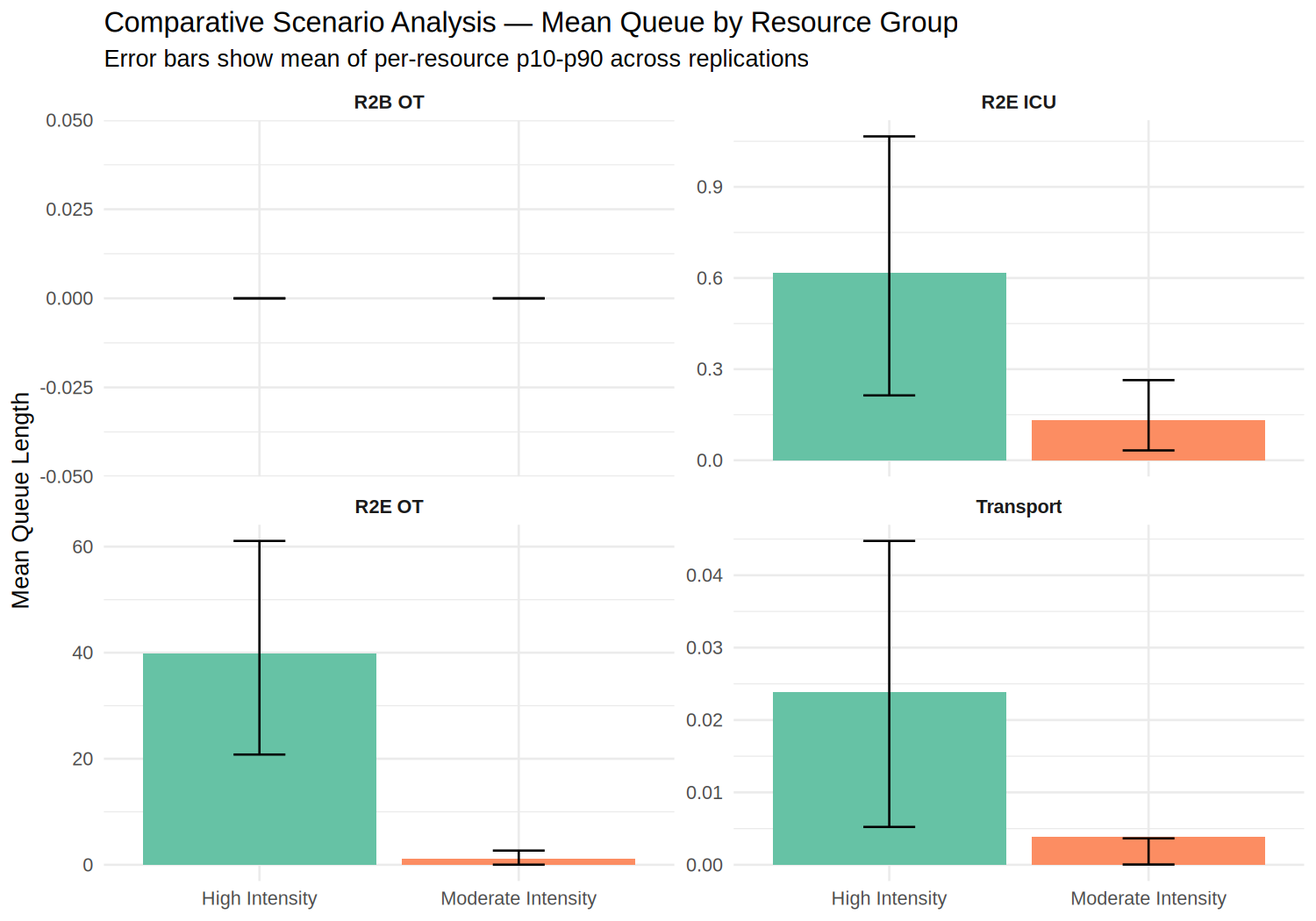
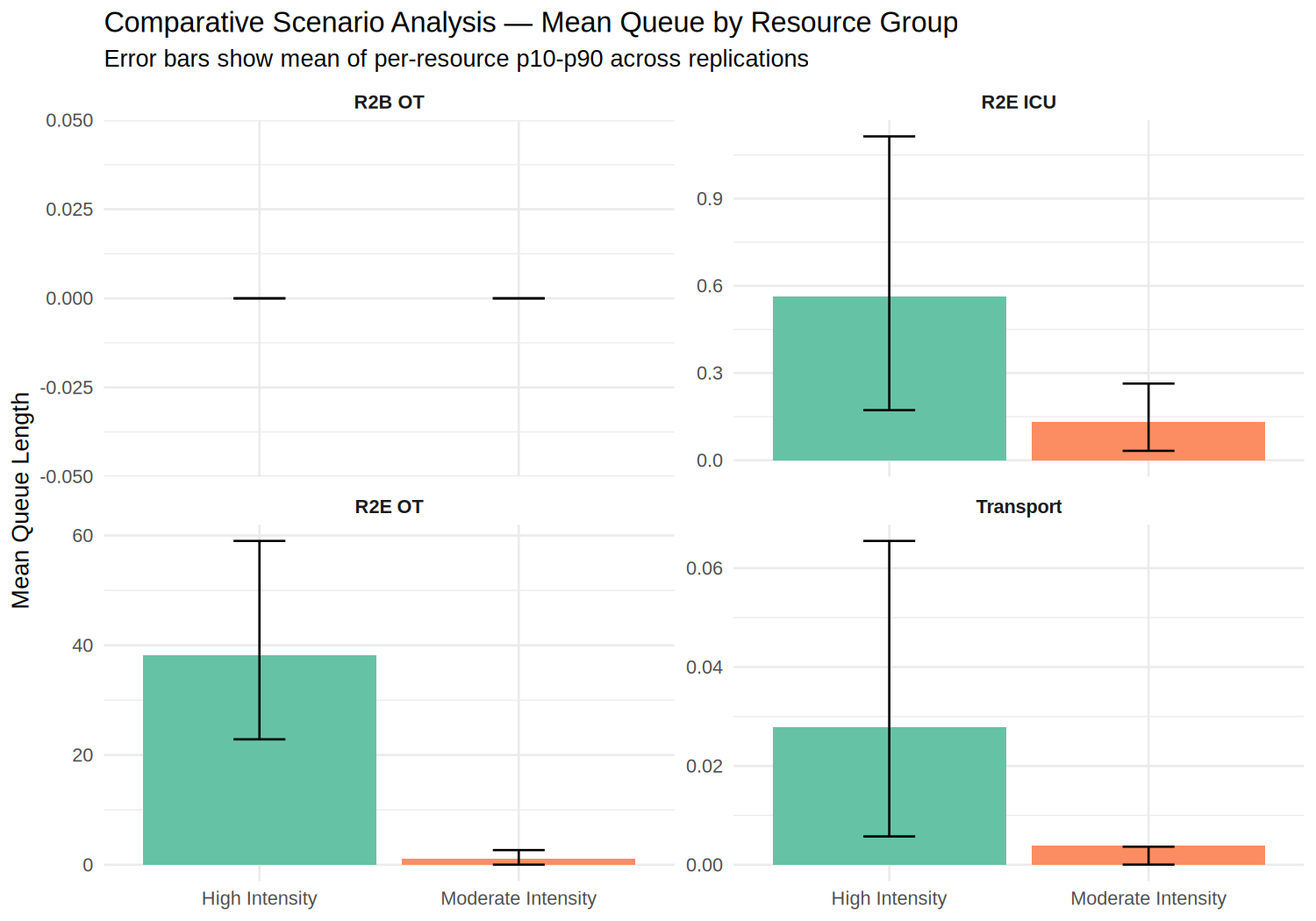
docs(issue-151): re-measure the comparative scenario tables against the calibration
The 50-replication comparison in docs/Multi_Run_Analysis.md reported
high_intensity mortality produced by a died-of-wounds model inherited from the
Falklands-calibrated base. Re-measured against the profile's own calibration,
its DOW/WIA rate moves from 0.88% to 3.43% and its DOW/run from 5.80 to 23.58.

Its queue rows move a little with them, and in two directions: the R2E theatre
and intensive care queues shorten, 39.8 to 38.2 and 0.618 to 0.564, a casualty
who dies of wounds leaving the queue for the resource that would have treated
them, while queues further from the point of death lengthen alongside a
casualty count reading 1,021.0 against 992.3.

The moderate_intensity arm reproduced every published figure exactly, each
queue group to the precision published, which is the evidence that the two arms
differ only where they are meant to. The interpretation now states what the
DOW/WIA ratio between the profiles does and does not measure, since it compares
two standards of care as well as two casualty volumes and a planner reading it
as the cost of surge alone would overstate it.

The abstract's queue ratios were stale from before the arrival generators were
rebuilt around per-day rate draws, as was the moderate_intensity column of the
README's 30-replication profile table; both are corrected here. The
high_intensity force-regeneration rows in the single-run analysis are flagged
in place rather than re-measured, the calibration steepening the depletion
[…]

diff --git a/docs/Multi_Run_Analysis.md b/docs/Multi_Run_Analysis.md
@@ -4,9 +4,9 @@
 
 <small>[Return to Top](#contents)</small>
 
-This document presents a multi-run (n≥30 replications, 95% confidence intervals) comparative analysis of the Battlefield Casualty Handling discrete event simulation under two named casualty-rate scenario profiles: `moderate_intensity` (a Falklands 1982-modified baseline, the same casualty rate underlying the illustrative single-run analysis in `docs/Single_Run_Analysis.md`) and `high_intensity` (an Okinawa exemplar, calibrated from FORECAS Tables A.7/A.9 [[1]](#references)). Where the single-run document establishes what the modelled deployed health system does under one seed and one casualty-rate assumption, this document establishes whether those findings are an artefact of that single draw and how the same system responds when casualty production is scaled to a materially higher intensity, using the project's multi-run replication framework, which executes independent stochastic replications of the discrete event simulation and aggregates outcomes as mean, 95% confidence interval, and p10–p90 range across runs.
+This document presents a multi-run (n≥30 replications, 95% confidence intervals) comparative analysis of the Battlefield Casualty Handling discrete event simulation under two named casualty-rate scenario profiles: `moderate_intensity` (a Falklands 1982-modified baseline, the same casualty rate underlying the illustrative single-run analysis in `docs/Single_Run_Analysis.md`) and `high_intensity` (an Okinawa exemplar, its casualty rates calibrated from FORECAS Tables A.7/A.9 [[1]](#references) and its died-of-wounds model from the rate the US Army reported on Okinawa [[2]](#references)). Where the single-run document establishes what the modelled deployed health system does under one seed and one casualty-rate assumption, this document establishes whether those findings are an artefact of that single draw and how the same system responds when casualty production is scaled to a materially higher intensity, using the project's multi-run replication framework, which executes independent stochastic replications of the discrete event simulation and aggregates outcomes as mean, 95% confidence interval, and p10–p90 range across runs.
 
-Across 50 replications of each scenario (30 simulated days, seed 42), the comparison confirms that the current establishment's adequacy conclusion does not extrapolate from Falklands to Okinawa intensity: mean total casualties per run rise 2.30-fold, the R2E Operating Theatre mean queue rises approximately 180-fold, the R2E Intensive Care Unit mean queue rises approximately 4.7-fold from a low base, the R2E Holding bed mean queue rises approximately 5.2-fold from a base already materially non-zero, and the R2B Holding bed mean queue rises approximately 7.1-fold, while R2B OT queue remains at zero in both scenarios — not because R2B absorbs any of the surge, but because the model's existing bypass routing diverts all surgical overflow to an already-saturated R2E. Died-of-wounds rate as a proportion of WIA rises from 0.55% to 0.79%. Transport (PMV Ambulance / HX240M) remains the one echelon with genuine headroom at both intensities.
+Across 50 replications of each scenario (30 simulated days, seed 42), the comparison confirms that the current establishment's adequacy conclusion does not extrapolate from Falklands to Okinawa intensity: mean total casualties per run rise 2.33-fold, the R2E Operating Theatre mean queue rises approximately 36-fold, the R2E Intensive Care Unit mean queue rises approximately 4.3-fold from a low base, the R2E Holding bed mean queue rises approximately 4.3-fold from a base already materially non-zero, and the R2B Holding bed mean queue rises approximately 5.5-fold, while R2B OT queue remains at zero in both scenarios — not because R2B absorbs any of the surge, but because the model's existing bypass routing diverts all surgical overflow to an already-saturated R2E. Died-of-wounds rate as a proportion of WIA rises from 0.42% to 3.43%, though that row alone compares two campaigns' standards of care as well as two casualty volumes, each profile carrying the mortality model of the conflict its casualty rates come from. Transport (PMV Ambulance / HX240M) remains the one echelon with genuine headroom at both intensities.
 
 ## Contents
 
@@ -31,11 +31,11 @@ Across 50 replications of each scenario (30 simulated days, seed 42), the compar
 
 <small>[Return to Top](#contents)</small>
 
-This analysis uses the project's comparative scenario runner (`run_scenario()` / `compare_scenarios()`, `R/scenario_runner.R`), which executes the multi-replication framework (`run_replications()`, `R/replication.R`) under a named scenario profile and aggregates queue and mortality KPIs across replications in the same mean (p10–p90), 95% CI format used throughout this project. A scenario profile is a named set of overrides applied on top of the shipped default `env_data.json` parameters; each profile's casualty-generation parameters (arrival-rate distributions, priority-severity mix, and died-of-wounds calibration) are calibrated against a named historical exemplar. The extent of that validation differs by profile and by parameter: the `moderate_intensity` died-of-wounds ceilings are validated against a treated-cohort mortality rate reported for casualties reaching forward surgical care, not against a whole-of-wounded rate (see the README's [Parameter Calibration](../README.md#parameter-calibration) and Further Development entry L22), while `high_intensity` has only its generation rates and distribution family sourced, as the following paragraph sets out.
+This analysis uses the project's comparative scenario runner (`run_scenario()` / `compare_scenarios()`, `R/scenario_runner.R`), which executes the multi-replication framework (`run_replications()`, `R/replication.R`) under a named scenario profile and aggregates queue and mortality KPIs across replications in the same mean (p10–p90), 95% CI format used throughout this project. A scenario profile is a named set of overrides applied on top of the shipped default `env_data.json` parameters; each profile's casualty-generation parameters (arrival-rate distributions, priority-severity mix, and died-of-wounds calibration) are calibrated against a named historical exemplar. The extent of that validation differs by profile and by parameter. Each profile's died-of-wounds ceilings are calibrated against a treated-cohort mortality rate reported for its own campaign, measured over casualties who reached a treatment facility alive rather than over all wounded (see the README's [Parameter Calibration](../README.md#parameter-calibration) and Further Development entry L22): `moderate_intensity` against the Falklands figure, `high_intensity` against the rate the US Army reported on Okinawa. What `high_intensity` still inherits from the Falklands-calibrated base is its priority split, its DNBI composition and its transport times, as the following paragraph sets out.
 
 Both scenarios use the same health system establishment — the simulation's shipped default configuration, a representative combat brigade served by three Role 1 (R1) treatment teams, two Role 2 Basic (R2B) facilities, and one Role 2 Enhanced Heavy (R2E Heavy) hospital — since element, bed, and transport fleet counts are structural configuration, not scenario-eligible parameters. Only the casualty-generation parameters differ between `moderate_intensity` and `high_intensity`.
 
-Two scenarios are compared — `moderate_intensity` (Falklands 1982 exemplar) and `high_intensity` (Okinawa exemplar, an explicitly unvalidated demonstration skeleton) — both defined in `env_data.json` (Issue #54). A third, Vietnam-calibrated profile is not included: FORECAS's Appendix A has no standalone Vietnam combat-troop WIA/KIA distribution table (Table A.5 is Vietnam DNBI only) [[1]](#references), so no genuinely FORECAS-sourced Vietnam parameters exist to build one from.
+Two scenarios are compared — `moderate_intensity` (Falklands 1982 exemplar) and `high_intensity` (Okinawa exemplar, calibrated in its casualty generation and its died-of-wounds model but not in its triage, sub-type and transport assumptions) — both defined in `env_data.json` (Issue #54). A third, Vietnam-calibrated profile is not included: FORECAS's Appendix A has no standalone Vietnam combat-troop WIA/KIA distribution table (Table A.5 is Vietnam DNBI only) [[1]](#references), so no genuinely FORECAS-sourced Vietnam parameters exist to build one from.
 
 **Run configuration:** 50 replications × 30 days (seed 42) were run for each scenario via:
 
@@ -55,37 +55,39 @@ Rscript scripts/run_scenarios.R --scenarios moderate_intensity,high_intensity --
 
 | Metric | `moderate_intensity` (Falklands) | `high_intensity` (Okinawa) | Ratio |
 |---|---|---|---|
-| Total casualties/run | 437.8 (p10–p90: 362.7–528.0) | 992.3 (p10–p90: 888.4–1,119.7) | 2.27× |
-| WIA/run | 188.7 (137.6–251.5) | 662.1 (539.4–784.9) | 3.51× |
-| DOW/run | 0.78 (0–2.0) | 5.80 (3.0–9.0) | 7.44× |
-| DOW/WIA rate | 0.42% (95% CI [0.29%, 0.54%]) | 0.88% (95% CI [0.78%, 0.99%]) | 2.11× |
+| Total casualties/run | 437.8 (p10–p90: 362.7–528.0) | 1,021.0 (p10–p90: 906.5–1,138.5) | 2.33× |
+| WIA/run | 188.7 (137.6–251.5) | 684.3 (586.2–792.5) | 3.63× |
+| DOW/run | 0.78 (0–2.0) | 23.58 (18.0–32.1) | 30.2× |
+| DOW/WIA rate | 0.42% (95% CI [0.29%, 0.54%]) | 3.43% (95% CI [3.24%, 3.61%]) | 8.24× |
 
 The p10 to p90 spread on the casualty rows is the headline change from the previous measurement of this table, and it is the arrival process rather than the model around it. Both profiles now draw each stream's rate once per simulated day from the distribution its configuration names, so the between-day standard deviation the source reports reaches the output instead of being averaged away across 1,440 per-minute draws (see the README's [Casualty Generation](../README.md#casualty-generation)). Total casualties per `moderate_intensity` run previously spanned 439.0 to 444.1 between the 10th and 90th percentiles, a range of five casualties across a whole campaign; they now span 362.7 to 528.0. The means are essentially unmoved, 437.8 against 441.6, which is what an unchanged configured mean should produce. Every mean in this document should now be read against a distribution wide enough that a single run is a poor guide to it.
 
-The two died-of-wounds rows are each a single 50-replication measurement of a response averaging well under one death per replication at Falklands load, and 50 replications resolve a died-of-wounds rate only to roughly ±0.13 percentage points (see the README's [Further Development](../README.md#further-development) entry L22 for where that figure comes from). The intervals shown are correctly specified, the replications behind them being independent of one another (see the README's [Multi-run Replication Framework](../README.md#multi-run-replication-framework)); they are simply wide, and the `moderate_intensity` figure moves between control seeds by about as much as the interval spans. The figure to quote for that profile is therefore the 150-replication pooled one in the README's [Scenario Profiles](../README.md#scenario-profiles), 0.368% (95% CI [0.310%, 0.426%]) on the treated cohort, which this table's single measurement is one draw around, and the ratio between the two profiles should be read as approximate for the same reason. The queue rows below are better resolved at the same replication count: they are time-weighted occupancy measures with far more events behind each replication.
+The died-of-wounds rows are the other change from the previous measurement, and unlike the spread they are not a discovery about the system: `high_intensity` now carries a mortality model calibrated against Okinawa rather than one inherited from the Falklands-calibrated base, so its died-of-wounds figures moved from a Falklands ceiling paired with modern treatment technique to a 1945 pairing (see the README's [Scenario Profiles](../README.md#scenario-profiles)). The 30-fold ratio between the profiles is therefore a comparison of two campaigns' mortality experience as well as of two casualty volumes, and the two effects cannot be separated within this table.
+
+The two rows are also resolved very differently. The `moderate_intensity` figure is a single 50-replication measurement of a response averaging well under one death per replication, which 50 replications resolve only to roughly ±0.13 percentage points (see the README's [Further Development](../README.md#further-development) entry L22 for where that figure comes from); it moves between control seeds by about as much as its own interval spans, so the figure to quote for that profile is the 150-replication pooled one in the README's [Scenario Profiles](../README.md#scenario-profiles), 0.368% (95% CI [0.310%, 0.426%]) on the treated cohort. The `high_intensity` figure rests on some 24 deaths per replication and is correspondingly well resolved, its 3.43% sitting inside the 3.471% (95% CI [3.360%, 3.583%]) that the same 150-replication pooling gives. The intervals in both cases are correctly specified, the replications behind them being independent of one another (see the README's [Multi-run Replication Framework](../README.md#multi-run-replication-framework)). The queue rows below are better resolved than either at the same replication count, being time-weighted occupancy measures with far more events behind each replication.
 
 ### Resource Queue Comparison (mean of per-resource mean queue, by group)
 
 | Resource group | `moderate_intensity` mean queue | `high_intensity` mean queue | Ratio |
 |---|---|---|---|
 | R2B OT | 0.000 | 0.000 | — |
-| R2B Hold | 0.593 | 2.943 | 4.96× |
-| R2E OT | 1.063 | 39.80 | 37.4× |
-| R2E ICU | 0.131 | 0.618 | 4.71× |
-| R2E Hold | 0.622 | 2.564 | 4.12× |
-| Transport (PMV Ambulance / HX240M) | 0.00386 | 0.0239 | 6.20× (small in both) |
+| R2B Hold | 0.593 | 3.228 | 5.45× |
+| R2E OT | 1.063 | 38.17 | 35.9× |
+| R2E ICU | 0.131 | 0.564 | 4.29× |
+| R2E Hold | 0.622 | 2.694 | 4.33× |
+| Transport (PMV Ambulance / HX240M) | 0.00386 | 0.0278 | 7.22× (small in both) |
 
 ![Comparative Scenario Analysis](../images/scenario_comparison.png)
 
 ### Interpretation
 
-The comparison exposes a structural fragility that the single-run baseline could not surface on its own, and it locates that fragility in the operating theatres. Mean R2E OT queue rises from 1.06 casualties at Falklands-equivalent load to 39.8 under `high_intensity`, a factor of roughly 37, which is by a wide margin the largest movement anywhere in the model. The mechanism is the surgical roster: a casualty seizes a theatre before it seizes one of the three surgical sections that staff them, so a room reads as queued while its occupant waits for staff, and at Okinawa-intensity arrival rates that wait dominates. The ratio has fallen sharply from the roughly 180-fold previously reported, and the reason is instructive rather than reassuring: the Falklands-load figure rose almost fivefold, from 0.227 to 1.06, while the surge figure barely moved. An arrival process that can deliver a heavy day produces theatre contention at Falklands rates too, so what the previous measurement read as a fragility confined to peer conflict is better read as one that peer conflict makes acute. R2E ICU rises from 0.131 to 0.618, a factor of 4.7, and is the flattest of the three R2E groups under surge: with only the damage control cohort taking a stabilisation episode, intensive care carries one episode for half the surgical population and two for the other half rather than two for everyone. R2E holding beds rise from 0.622 to 2.56, a factor of 4.1, and absorb what intensive care does not, since the holding bed is where a casualty goes when no intensive care bed is free and where those awaiting strategic evacuation stage.
+The comparison exposes a structural fragility that the single-run baseline could not surface on its own, and it locates that fragility in the operating theatres. Mean R2E OT queue rises from 1.06 casualties at Falklands-equivalent load to 38.2 under `high_intensity`, a factor of roughly 36, which is by a wide margin the largest movement anywhere in the model. The mechanism is the surgical roster: a casualty seizes a theatre before it seizes one of the three surgical sections that staff them, so a room reads as queued while its occupant waits for staff, and at Okinawa-intensity arrival rates that wait dominates. The ratio has fallen sharply from the roughly 180-fold previously reported, and the reason is instructive rather than reassuring: the Falklands-load figure rose almost fivefold, from 0.227 to 1.06, while the surge figure barely moved. An arrival process that can deliver a heavy day produces theatre contention at Falklands rates too, so what the previous measurement read as a fragility confined to peer conflict is better read as one that peer conflict makes acute. R2E ICU rises from 0.131 to 0.564, a factor of 4.3, and is the flattest of the three R2E groups under surge: with only the damage control cohort taking a stabilisation episode, intensive care carries one episode for half the surgical population and two for the other half rather than two for everyone. R2E holding beds rise from 0.622 to 2.69, a factor of 4.3, and absorb what intensive care does not, since the holding bed is where a casualty goes when no intensive care bed is free and where those awaiting strategic evacuation stage. Both R2E theatre and R2E intensive care queues read slightly shorter than the previous measurement of this table, at 38.2 against 39.8 and 0.564 against 0.618, while every other queue reads longer; the profile's calibrated mortality is what separates them, a casualty who dies of wounds leaving the queue for the resource that would otherwise have treated them.
 
-R2B OT queue remains at 0 in both scenarios — not because R2B absorbs any of the surge, but because the OT-bypass routing diverts casualties requiring surgery to R2E whenever the theatre is busy or queued, or the surgical section is closed for longer than the pre-open hold window, rather than letting them wait; under `high_intensity`, this shunts the entire surge onto an R2E that has limited further capacity to absorb it. The hold window bounds how long a casualty may wait for a section about to reopen and so cannot produce a standing queue, which is why the queue reads zero even with the window open (see [The R2B Pre-Open Hold Window](#the-r2b-pre-open-hold-window)). R2B Hold bed queue, already identified as a Falklands-rate bottleneck (see the single-run analysis's [R2B Hold Bed Saturation](Single_Run_Analysis.md#r2b-hold-bed-saturation--stream-decomposition-and-intervention-analysis) finding), increases roughly 5-fold (0.593 to 2.94), driven by the proportional increase in non-surgical WIA volume rather than any change to DNBI generation, since DNBI generation rate is not one of the parameters a scenario profile overrides.
+R2B OT queue remains at 0 in both scenarios — not because R2B absorbs any of the surge, but because the OT-bypass routing diverts casualties requiring surgery to R2E whenever the theatre is busy or queued, or the surgical section is closed for longer than the pre-open hold window, rather than letting them wait; under `high_intensity`, this shunts the entire surge onto an R2E that has limited further capacity to absorb it. The hold window bounds how long a casualty may wait for a section about to reopen and so cannot produce a standing queue, which is why the queue reads zero even with the window open (see [The R2B Pre-Open Hold Window](#the-r2b-pre-open-hold-window)). R2B Hold bed queue, already identified as a Falklands-rate bottleneck (see the single-run analysis's [R2B Hold Bed Saturation](Single_Run_Analysis.md#r2b-hold-bed-saturation--stream-decomposition-and-intervention-analysis) finding), increases roughly 5-fold (0.593 to 3.23), driven by the proportional increase in non-surgical WIA volume rather than any change to DNBI generation, since DNBI generation rate is not one of the parameters a scenario profile overrides.
 
-Transport remains the one echelon with genuine headroom: mean queue stays a small fraction of a casualty even at 2.3× total casualty volume, consistent with the single-run analysis's [Transport Fleet Capacity Margin](Single_Run_Analysis.md#transport-fleet-capacity-margin) finding that the PMV Ambulance/HX240M pool is not the binding constraint at the Falklands-derived rate. The absolute figures are nonetheless some 300 times larger than the previous measurement of this table, at 0.0039 and 0.024 casualties against 0.0000113 and 0.000131, because a queue forms on peak days where a flattened arrival process produced none at all. The margin is wide and it is no longer untouched, which is what makes a re-run of the dedicated fleet-size sweep against the current arrival process the outstanding work rather than a re-run at higher intensity alone (see the README's Further Development entry L19).
+Transport remains the one echelon with genuine headroom: mean queue stays a small fraction of a casualty even at 2.3× total casualty volume, consistent with the single-run analysis's [Transport Fleet Capacity Margin](Single_Run_Analysis.md#transport-fleet-capacity-margin) finding that the PMV Ambulance/HX240M pool is not the binding constraint at the Falklands-derived rate. The absolute figures are nonetheless some 300 times larger than they were before the arrival process was rebuilt around per-day rate draws, at 0.0039 and 0.028 casualties against 0.0000113 and 0.000131, because a queue forms on peak days where a flattened arrival process produced none at all. The margin is wide and it is no longer untouched, which is what makes a re-run of the dedicated fleet-size sweep against the current arrival process the outstanding work rather than a re-run at higher intensity alone (see the README's Further Development entry L19).
 
-DOW/WIA rate rises from 0.42% to 0.88%, a factor of roughly 2.1, on intervals that do not overlap. The direction is the defensible finding rather than the factor itself, for the reasons given under the table: the Falklands-load figure moves across control seeds by about as much as its own interval spans, which is enough to shift the ratio between measurements without disturbing the conclusion, since the surge figure rests on roughly seven times as many deaths and is correspondingly better resolved. The mechanism is that at Okinawa intensity the deaths are driven by treatment queues deep enough that removing an intensive care episode and a theatre episode from half the operated population, which is what the surgical pathway split does, does not relieve them.
+DOW/WIA rate rises from 0.42% to 3.43%, a factor of roughly 8, on intervals that do not overlap. What that factor measures has changed with this table, and it is worth being explicit about, because it is the one row here that is no longer a statement about the modelled health system alone. Each profile now carries the mortality model of the campaign its casualty rates come from, so the gap between the rows is the combined effect of three things: Okinawa's heavier casualty volume, the treatment queues that volume produces, and a standard of surgical and resuscitative care four decades older than the Falklands profile's. The first two belong to this comparison; the third is a property of the calibration and would be present at equal casualty volumes. A planner reading the ratio as the cost of surge alone would overstate it substantially. What survives unambiguously is the mechanism the queue rows establish: at Okinawa intensity the deaths are driven by treatment queues deep enough that removing an intensive care episode and a theatre episode from half the operated population, which is what the surgical pathway split does, does not relieve them.
 
 ---
 
@@ -125,13 +127,13 @@ Three limits apply to this comparison. It was run at the shipped default configu
 
 <small>[Return to Top](#contents)</small>
 
-The system's resilience to surge is directly quantified rather than inferred. This multi-run comparison confirms that neither R2B nor R2E can absorb Okinawa-intensity casualty rates without fundamental redesign: R2E OT mean queue rises approximately 37-fold and R2E Hold mean queue approximately 4-fold relative to the Falklands-modified baseline, R2B Hold queue rises approximately 5-fold, and DOW/WIA rate rises by a factor of roughly 2.1, all while R2B OT queue remains at zero only because the existing bypass routing shunts all surgical overflow onto an already-saturated R2E rather than R2B absorbing any of the surge itself. Effective LSCO medical support at Okinawa intensity would require scalable holding capacity at forward echelons, a deeper surgical roster at R2E, and dynamic load-balancing between R2B and R2E, capabilities the current static establishment does not provide.
+The system's resilience to surge is directly quantified rather than inferred. This multi-run comparison confirms that neither R2B nor R2E can absorb Okinawa-intensity casualty rates without fundamental redesign: R2E OT mean queue rises approximately 36-fold and R2E Hold mean queue approximately 4-fold relative to the Falklands-modified baseline, R2B Hold queue rises approximately 5-fold, and DOW/WIA rate rises by a factor of roughly 8, of which only part is attributable to surge (see the interpretation above), all while R2B OT queue remains at zero only because the existing bypass routing shunts all surgical overflow onto an already-saturated R2E rather than R2B absorbing any of the surge itself. Effective LSCO medical support at Okinawa intensity would require scalable holding capacity at forward echelons, a deeper surgical roster at R2E, and dynamic load-balancing between R2B and R2E, capabilities the current static establishment does not provide.
 
 These figures were regenerated at 50 replications per scenario after the arrival generators were rebuilt around per-day rate draws and thinning, and they supersede the comparison made while a rate redrawn every simulated minute was flattening each stream's day-to-day variation to roughly a quarter of a plain Poisson process's (see the README's [Casualty Generation](../README.md#casualty-generation)). The means barely move: `moderate_intensity` total casualties from 441.6 to 437.8 per run and `high_intensity` from 1,015.6 to 992.3, which is what an unchanged configured mean should produce. What moves is the spread and everything that depends on it. The 10th to 90th percentile range on `moderate_intensity` total casualties widens from 439.0-444.1 to 362.7-528.0, and the queue rows widen with it.
 
-The direction of that movement is what makes this the most consequential of the generator changes for the findings above. Every ratio in the tables compresses, because the Falklands-load arm rises far more than the surge arm: the R2E theatre mean queue at `moderate_intensity` rises from 0.227 to 1.06 while the `high_intensity` figure falls slightly, from 40.8 to 39.8, and the headline ratio falls from roughly 180 to roughly 37. A ratio compressing is easy to misread as a system found more robust than it was. It is the opposite. The surge arm is close to unmoved because it was already generating contention on most days; the baseline arm rises because it now has bad days at all. What the previous arrival process supported was the claim that theatre contention is a peer-conflict problem, and that claim does not survive the correction. Transport shows the same pattern in a smaller register, its Falklands-load mean queue rising from around one ten-thousandth of a casualty to roughly four thousandths, small in absolute terms and no longer indistinguishable from zero.
+The direction of that movement is what makes this the most consequential of the generator changes for the findings above. Every ratio in the tables compresses, because the Falklands-load arm rises far more than the surge arm: the R2E theatre mean queue at `moderate_intensity` rises from 0.227 to 1.06 while the `high_intensity` figure falls slightly, from 40.8 to 39.8 as then measured, and the headline ratio falls from roughly 180 to roughly 37. A ratio compressing is easy to misread as a system found more robust than it was. It is the opposite. The surge arm is close to unmoved because it was already generating contention on most days; the baseline arm rises because it now has bad days at all. What the previous arrival process supported was the claim that theatre contention is a peer-conflict problem, and that claim does not survive the correction. Transport shows the same pattern in a smaller register, its Falklands-load mean queue rising from around one ten-thousandth of a casualty to roughly four thousandths, small in absolute terms and no longer indistinguishable from zero.
 
-The died-of-wounds rows should not be read as a movement at all. Each is a single 50-replication measurement of a response averaging under one death per replication at Falklands load, which the README's [Further Development](../README.md#further-development) entry L22 shows is resolved only to roughly a tenth of a percentage point at that replication count. The `moderate_intensity` DOW/WIA rate reads 0.42% here against 0.55% in the previous measurement, a gap inside that resolution, while the 150-replication pooled treated-cohort figure for the same profile moved only from 0.353% to 0.368%. The `high_intensity` figure, resting on roughly seven times as many deaths, rises from 0.79% to 0.88% and is the better resolved of the two. The queue and occupancy rows above are time-weighted over far more events per replication and are correspondingly better resolved than either.
+The tables were then re-measured again when `high_intensity` gained a died-of-wounds model calibrated to Okinawa in place of the one it had inherited from the Falklands-calibrated base, which is the version shown above and which supersedes the `high_intensity` figures quoted in the two paragraphs before this one. The profile's own rows move as that calibration intends, DOW/WIA from 0.88% to 3.43%, and its queue rows move a little with them: the theatre and intensive care queues shorten, 39.8 to 38.2 and 0.618 to 0.564, because a casualty who dies of wounds leaves the queue for the resource that would have treated them, while the queues further from the point of death lengthen alongside a casualty count that reads 1,021.0 against 992.3. The `moderate_intensity` arm is untouched by that change and reproduced every figure above exactly, which is the evidence that the two arms differ only where they are meant to.
 
 The qualitative conclusion is unchanged and the quantitative one is now measured against an arrival process that reproduces both the daily rate and the day-to-day variation the configuration names. The run was made in an unpinned R 4.3.3 sandbox rather than the project's pinned Dev Container, under the same caveat as the other figures refreshed alongside it (see `CLAUDE.md`'s Key Parameters provenance caveats). `images/scenario_comparison.png` was regenerated alongside the tables by the command given above. A comparable Vietnam-intensity comparison remains unavailable pending a genuine FORECAS-sourced Vietnam combat-troop WIA/KIA table.
 
@@ -144,5 +146,7 @@ The qualitative conclusion is unchanged and the quantitative one is now measured
 <!-- REFERENCES START -->
 
 [1] Blood, CG; Zouris, JM; Rotblatt, D; (1998) *Using the Ground Forces Casualty System (FORECAS) to Project Casualty Sustainment*. Retrieved 20 Jul 25, from https://ia803103.us.archive.org/18/items/DTIC_ADA339487/DTIC_ADA339487_text.pdf
+
+[2] Marble, S. (2025). Both joint and not: Medical support at Okinawa, 1945. *Joint Force Quarterly*, *117*(2), article 11. National Defense University Press. Retrieved 17 Aug 26, from https://digitalcommons.ndu.edu/joint-force-quarterly/vol117/iss2/11/
 
 <!-- REFERENCES END -->

diff --git a/CLAUDE.md b/CLAUDE.md
@@ -38,7 +38,7 @@ The codebase is organised into a modular layout under `R/`, with `run.R` as the 
 | `scripts/check_icu_time_conservation.R` | Regression check asserting that a casualty's post-operative ICU requirement is conserved across all three routes and at every forward ICU share; exits non-zero on failure |
 | `scripts/check_composition_ilr.R` | Regression check asserting that each simplex-constrained composition group stays on the simplex through its screened balance coordinates; exits non-zero on failure |
 | `scripts/check_morris_baseline.R` | Regression check asserting that every screened parameter's baseline lies inside its own screening bounds and equals the value it holds in `env_data.json`; exits non-zero on failure |
-| `scripts/check_dow_calibration.R` | Regression check asserting that neither shipped configuration's treated-cohort died-of-wounds rate overshoots the Ajax Bay bound, pooling independent measurements; exits non-zero on failure |
+| `scripts/check_dow_calibration.R` | Regression check asserting that each shipped configuration's treated-cohort died-of-wounds rate agrees with the historical anchor of the campaign it models, the Ajax Bay bound for the two Falklands-calibrated configurations and the reported Okinawa rate for `high_intensity`, pooling independent measurements; exits non-zero on failure |
 | `scripts/check_mass_casualty_kia_split.R` | Regression check asserting that a mass casualty event's casualty count is conserved across the wounded/killed split, that the realised killed share tracks the configured one, that an event's killed reach mortuary handling untriaged, and that the share reaches nothing while injection is disabled; exits non-zero on failure |
 | `scripts/check_replication_independence.R` | Regression check asserting that `run_once()` is a pure function of its seed and that `run_replications()` draws a distinct seed per replication, the two properties that make replications independent; exits non-zero on failure |
 | `scripts/check_measurement_reproducibility.R` | Regression check asserting that a multi-replication measurement is a function of its control seed alone: that it repeats at that seed, that it is unaffected by what preceded it in the session, that `run_replications()` restores the caller's generator kind and stream position, and that a replication reproduces from its seed on either dispatch path; exits non-zero on failure |
@@ -547,6 +547,12 @@ These are the validated baseline values from the current single-run analysis. Re
 > **Provenance note (Issue #149 mass casualty killed share):** Issue #149 splits a mass casualty event's drawn casualty count between the wounded and casualties killed at or near the point of injury, the latter overlaid on the `kia_cbt` stream and taking the mortuary pathway the background killed stream already takes, at a new `mass_casualty.event.kia_fraction` defaulting to 0.28. **No seed-42 single-run row in the table below changes.** Mass casualty injection ships disabled (`mass_casualty.event.rate_per_day = 0`), so no event fires, the split draws no random number, and the run is bit-identical to the pre-change one; `scripts/check_mass_casualty_kia_split.R` asserts exactly that, comparing runs at killed shares of 0 and 1 at the shipped rate and finding them identical over all 530 arrivals. Enabling injection is not RNG-stream-neutral, one Binomial draw being added per fired event, but no shipped configuration enables it. The full tracked set was regenerated from a single `--refresh-baseline` invocation, following the Issue #154 precedent, and every file in `images/`, `logs/` and `data/` came back byte-identical except `data/mass_casualty_events.csv`, whose header gains the `n_wia` and `n_kia` columns the per-event table now carries; the file holds no rows at the shipped rate. `images/mass_casualty_events.png` is generated under `rate_per_day = 0.2` rather than the shipped default, as the surrounding narrative in `docs/Single_Run_Analysis.md` states, and that section's figures are flagged in place as predating this change rather than re-measured, since they already carry a currency note covering four earlier model changes.
 
 > The measurement quoted in `docs/Single_Run_Analysis.md` for the split itself (78 event-derived casualties at seed 42 and `rate_per_day = 0.2`, of which 27 killed and 51 wounded) was made in an **unpinned R 4.3.3 sandbox** (no Docker access in this session to build `rocker/rstudio:4.4.2`), under the same caveat as the Issue #18, #23, #161, #154, #156, #160, #159, #173, #178, #189, #148, #146, #203, #208, #206 and #150 work. The validation step this project applies as standard was applied here too: the seed-42 single run at the shipped configuration was reproduced first and matched the tracked baseline console log byte for byte, which is both the evidence that this sandbox is faithful and the confirmation that the baseline does not move.
+
+> **Provenance note (Issue #151 Okinawa died-of-wounds calibration):** Issue #151 gives the `high_intensity` scenario profile its own died-of-wounds ceilings and treatment efficacy factors, where it previously inherited both from the Falklands-calibrated base. It touches no trajectory, no base-configuration parameter and no random draw outside that profile, so **no seed-42 single-run row in the table below changes** and no tracked artifact in `data/`, `logs/` or `images/` was regenerated apart from `images/scenario_comparison.png`, which the comparative scenario runner rewrites alongside the tables re-measured for it. As the validation step this project applies as standard, the seed-42 single run was reproduced first and matched the tracked baseline console log byte for byte, which is both the evidence that this sandbox is faithful and the confirmation that neither `default` nor `moderate_intensity` moves; the 50-replication comparative run reproduced every published `moderate_intensity` figure exactly, including each queue group to the precision published (total casualties 437.8, WIA 188.7, DOW 0.78, DOW/WIA 0.42%; R2B Hold 0.593, R2E OT 1.063, R2E ICU 0.131, R2E Hold 0.622, transport 0.00386).
+
+> The base ceiling was fitted to a Falklands mortality target jointly with OIF/OEF-era efficacy multipliers, so the two are entangled and neither transfers on its own; running an Okinawa casualty stream through that pairing applied a mortality target and a standard of care drawn from two unrelated contexts, neither of them the profile's own. The calibration target is now Okinawa's own reported rate, three point four percent of casualties who reached a hospital alive dying there (Marble, 2025, *Joint Force Quarterly* 117), measured on the same treated cohort the model reports and bracketed by the war-wide figures of 3.5% (Holcomb et al., 2006) and 4.5% (Marble). The treatment efficacy factors are informed estimates for 1945 Pacific-theatre care, disclosed as such per Source Prioritisation level 5, and against them the ceilings re-calibrate to `p1_p_max` = 0.052 and `p2_p_max` = 0.042, up from the base 0.020 and 0.016. The ceilings rise here where `moderate_intensity`'s fell, because this profile weakens the same factors against a target roughly seven times higher. Pooling three independent 50-replication measurements gives a treated-cohort rate of 3.471% (95% CI [3.360%, 3.583%]) against individual measurements of 3.592%, 3.463% and 3.359%, an interval spanning the target; DOW/WIA measures 3.164% (95% CI [3.066%, 3.262%]).
+
+> `scripts/check_dow_calibration.R` now holds a target per configuration rather than one shared bound, and tests `high_intensity` two-sided at a tolerance of two percentage points, a reported rate against a stated denominator being something to reach rather than merely to stay under; a full run is 450 replications rather than 300. The 50-replication comparative tables in `docs/Multi_Run_Analysis.md` were re-measured, the profile's own rows moving as the calibration intends (DOW/run 5.80 to 23.58, DOW/WIA 0.88% to 3.43%) and its queue rows moving a little with them, the theatre and intensive care queues shortening (39.8 to 38.2, 0.618 to 0.564) because a casualty who dies of wounds leaves the queue for the resource that would have treated them, while the queues further from the point of death lengthen alongside a casualty count reading 1,021.0 against 992.3. The README's 30-replication profile comparison table was refreshed at the same time and its `moderate_intensity` column corrected: it had stood at 151.1 WIA and 57.1 KIA per run since before the arrival generators were rebuilt around per-day rate draws, and measures 184.8 and 68.7 now. The two `high_intensity` force-regeneration rows in `docs/Single_Run_Analysis.md` were **not** re-measured and are flagged in place, the calibration steepening the depletion those rows demonstrate rather than working against it. The `Welch ICU-queue CMA` row, the transport and forward ICU share sweeps, the R2B pre-open hold window comparison and the published Morris ranking were **not** re-run and remain flagged as such below and in those documents; the Morris set is unchanged, no parameter being added or removed by this issue. The measurements were made in an **unpinned R 4.3.3 sandbox** (no Docker access in this session to build `rocker/rstudio:4.4.2`), under the same caveat as the Issue #18, #23, #161, #154, #156, #160, #159, #173, #178, #189, #148, #146, #203, #208, #206, #150 and #149 work.
 
 | Metric | Baseline value |
 |---|---|

diff --git a/docs/Single_Run_Analysis.md b/docs/Single_Run_Analysis.md
@@ -277,6 +277,8 @@ Both pools decline smoothly and monotonically-in-trend (net depletion outweighin
 | `high_intensity` (12 reps) | None | −0.204/day | 9.6×10⁻¹⁴ | 34.8 | 29.9 |
 | `high_intensity` (12 reps) | 7-day demand cycle, 7-day lag | −0.018/day | 0.27 | 34.8 | 34.2 |
 
+The two `high_intensity` rows predate that profile's died-of-wounds calibration and have not been re-measured against it. A casualty who dies of wounds never returns to duty, so the calibrated profile depletes the force somewhat faster than these rows record; the effect steepens the no-reinforcement decline the table is demonstrating rather than working against it, which is why the demonstration stands on the figures as measured (see the README's [Scenario Profiles](../README.md#scenario-profiles)).
+
 At `high_intensity` casualty rates, the mechanism is unambiguous: daily volume falls significantly with no reinforcement (a ~14% first-to-last-week decline, p = 9.6×10⁻¹⁴), and the demand-cycle reinforcement configuration reduces that decline by an order of magnitude to a slope statistically indistinguishable from flat (−0.018/day, p = 0.27; <2% first-to-last-week change) — reinforcement substantially arrests depletion *without* overshooting into net growth. This is a direct consequence of the demand-based design: because each cycle's demand is the pool's actual current shortfall rather than a fixed size, a well-sustained pool automatically asks for less on its next cycle, and the triangular fill distribution's long under-fill tail means full or over-delivery is possible but not the likely outcome. At `moderate_intensity` (the documented seed-42 baseline scenario), the same mechanism operates in the same direction — the no-reinforcement slope is negative and the reinforced slope is positive — but neither reaches significance at n = 15 replications, because Falklands-calibrated casualty rates deplete only a low single-digit percentage of either force pool over 30 days (see the regression note elsewhere in this analysis). This is expected, not a defect: the `moderate_intensity` acceptance criterion for this issue is a small, mechanically-real effect, not a dramatic one, and the `high_intensity` demonstration confirms the same mechanism produces an unambiguous, statistically significant effect once casualty production is large relative to force size.
 
 `force_regeneration.reinforcement` (`env_data.json`) remains a fully planner-tunable input — the demand cycle, fulfillment lag, and all three triangular fill parameters — and this project does not attempt to auto-balance it against a scenario's attrition rate; the 7-day/7-day configuration above is illustrative, not a recommended operational setting.

diff --git a/README.md b/README.md
@@ -2337,6 +2337,6 @@ The repository is a foundation for further work rather than a finished decision-
 
 [65] Lewis, P. A. W., & Shedler, G. S. (1979). Simulation of nonhomogeneous Poisson processes by thinning. *Naval Research Logistics Quarterly*, *26*(3), 403-413. Naval Postgraduate School Calhoun repository. Retrieved 13 Aug 26, from https://calhoun.nps.edu/handle/10945/63159
 
-[66] Marble, S. (2025). Both joint and not: Medical support at Okinawa, 1945. *Joint Force Quarterly*, *117*, 74-81. National Defense University Press. Retrieved 17 Aug 26, from https://digitalcommons.ndu.edu/joint-force-quarterly/vol117/iss2/11/
+[66] Marble, S. (2025). Both joint and not: Medical support at Okinawa, 1945. *Joint Force Quarterly*, *117*(2), article 11. National Defense University Press. Retrieved 17 Aug 26, from https://digitalcommons.ndu.edu/joint-force-quarterly/vol117/iss2/11/
 
 <!-- REFERENCES END -->
